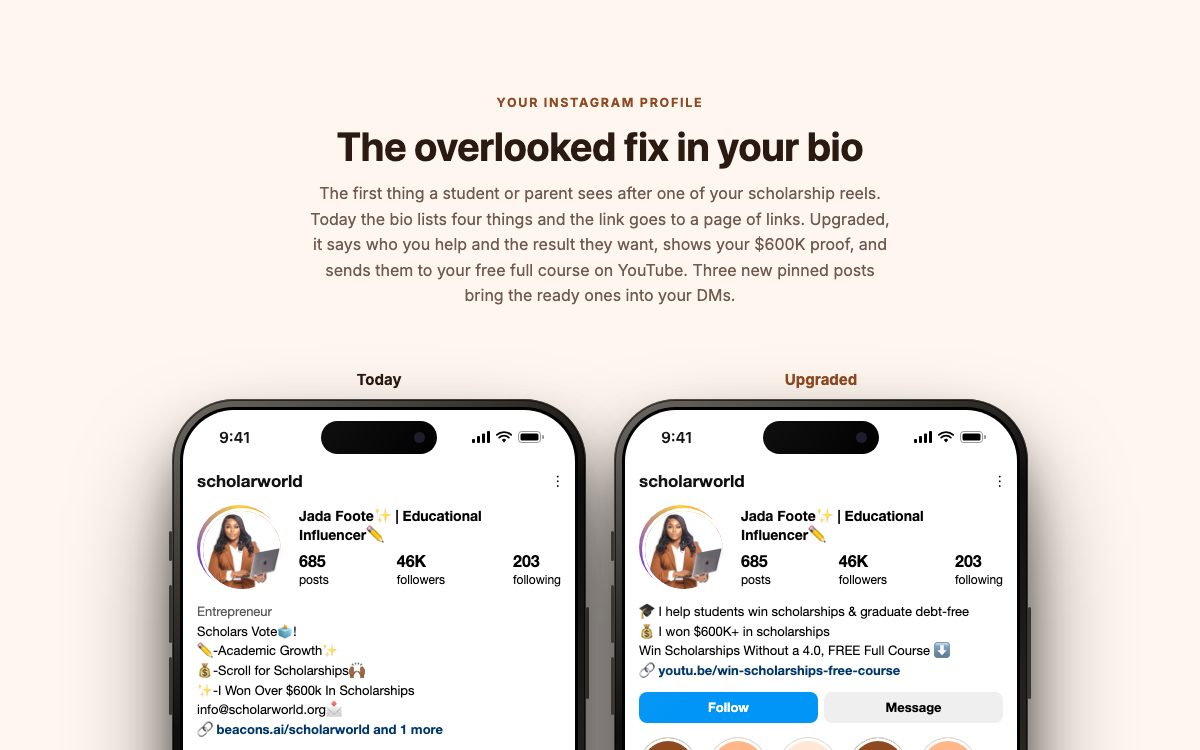
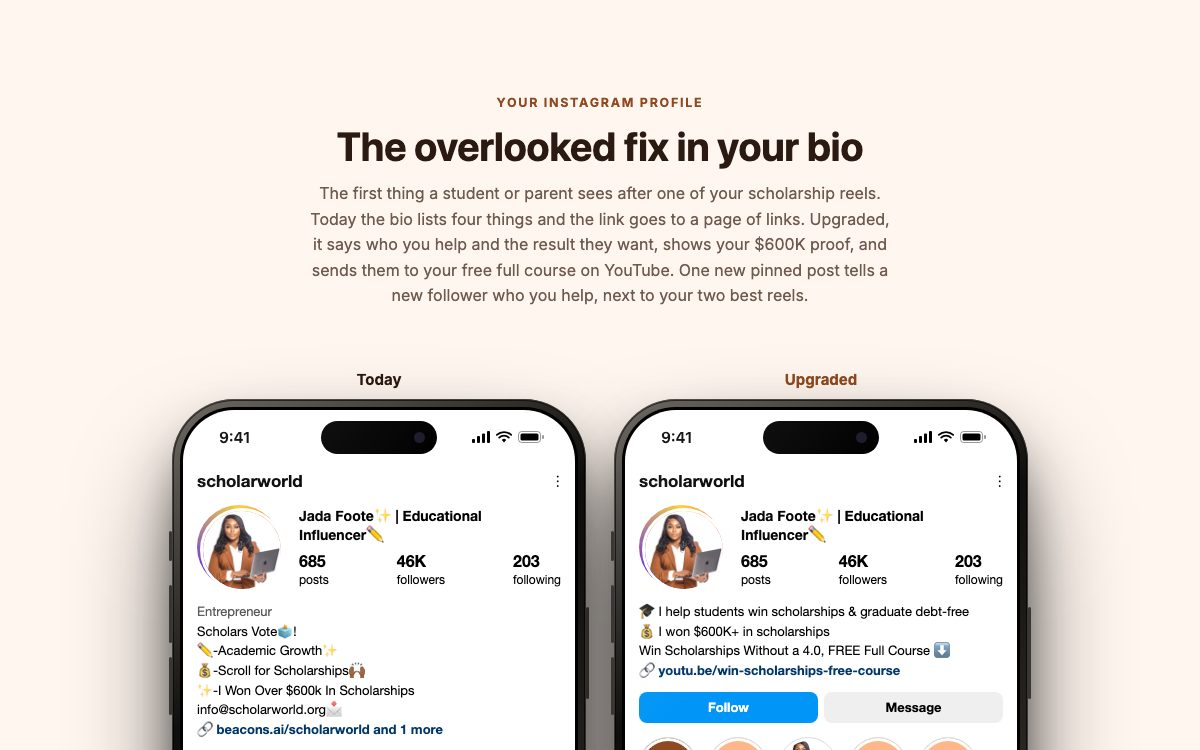
Jada pitch: her highlights + Start here/Free course, one new pinned post, 'my students' rating

Changed region(s): [[0.2467, 0.3373, 0.74, 0.3987], [0.6475, 0.9813, 0.74, 1.0]]

diff --git a/ig-profile/index.html b/ig-profile/index.html
@@ -47,7 +47,7 @@
       <div class="sa__intro">
         <p class="eyebrow">Your Instagram profile</p>
         <h1 class="sa__title">The overlooked fix in your bio</h1>
-        <p class="sa__note">The first thing a student or parent sees after one of your scholarship reels. Today the bio lists four things and the link goes to a page of links. Upgraded, it says who you help and the result they want, shows your $600K proof, and sends them to your free full course on YouTube. Three new pinned posts bring the ready ones into your DMs.</p>
+        <p class="sa__note">The first thing a student or parent sees after one of your scholarship reels. Today the bio lists four things and the link goes to a page of links. Upgraded, it says who you help and the result they want, shows your $600K proof, and sends them to your free full course on YouTube. One new pinned post tells a new follower who you help, next to your two best reels.</p>
       </div>
       <div class="stage"><div class="ads2">
         <div class="adcol"><p class="adlab">Today</p><div class="phone-wrap" id="pf1"><div class="iphone"><span class="btn-side l" style="top:132px;height:30px"></span><span class="btn-side l" style="top:186px;height:58px"></span><span class="btn-side l" style="top:258px;height:58px"></span><span class="btn-side r" style="top:208px;height:92px"></span><div class="screen"><div class="status"><span>9:41</span><span class="island"></span><span class="ic"><svg viewBox="0 0 18 12"><rect x="0" y="8" width="3" height="4" rx="1" fill="#000"/><rect x="5" y="5" width="3" height="7" rx="1" fill="#000"/><rect x="10" y="2.5" width="3" height="9.5" rx="1" fill="#000"/><rect x="15" y="0" width="3" height="12" rx="1" fill="#000"/></svg><svg viewBox="0 0 16 12"><path d="M8 11.5l2.2-2.6a3.2 3.2 0 0 0-4.4 0z" fill="#000"/><path d="M3.2 6.6a6.8 6.8 0 0 1 9.6 0" stroke="#000" stroke-width="1.8" fill="none" stroke-linecap="round"/><path d="M.8 3.9a10.5 10.5 0 0 1 14.4 0" stroke="#000" stroke-width="1.8" fill="none" stroke-linecap="round"/></svg><svg viewBox="0 0 27 12"><rect x=".5" y=".5" width="22" height="11" rx="3.2" fill="none" stroke="#000" opacity=".4"/><rect x="2.5" y="2.5" width="18" height="7" rx="1.6" fill="#000"/><rect x="24" y="4" width="2" height="4" rx="1" fill="#000" opacity=".4"/></svg></span></div>
@@ -69,16 +69,16 @@
     <div class="pright"><b class="pname">Jada Foote&#10024; | Educational Influencer&#9999;&#65039;</b><div class="pstats"><span><b>685</b>posts</span><span><b>46K</b>followers</span><span><b>203</b>following</span></div></div></div>
   <div class="pbio"><p>&#127891; I help students win scholarships &amp; graduate debt-free</p><p>&#128176; I won $600K+ in scholarships</p><p>Win Scholarships Without a 4.0, FREE Full Course &#11015;&#65039;</p><p class="plink">&#128279; youtu.be/win-scholarships-free-course</p></div>
   <div class="pbtn"><span class="fol">Follow</span><span>Message</span></div>
-  <div class="hl"><span class="hli"><i style="background:#8f4a22">&#9654;</i><b>Free course</b></span><span class="hli"><i style="background:#FFB689">&#10022;</i><b>Start here</b></span><span class="hli"><i style="background:#ffe7d6"></i><b>YouTube</b></span><span class="hli"><i style="background:#8f4a22"></i><b>Wins</b></span><span class="hli"><i style="background:#FFB689"></i><b>Scholarships</b></span></div>
+  <div class="hl"><span class="hli"><i style="background:#8f4a22">&#9654;</i><b>Free course</b></span><span class="hli"><i style="background:#FFB689">&#10022;</i><b>Start here</b></span><span class="hli"><i style="background:url(../assets/img/profile/pfp.jpg) center/cover"></i><b>Exclusive</b></span><span class="hli"><i style="background:#FFB689;font-size:15px">&#9733;</i><b>Scholarships&hellip;</b></span><span class="hli"><i style="background:#FFB689;font-size:15px">&#9733;</i><b>Reviews&#128588;&#127998;</b></span></div>
   <div class="ptabs"><span class="on">&#9638;</span><span>&#9654;</span><span>&#9786;</span></div>
-  <div class="grid3"><span class="gc"><svg class="pin" viewBox="0 0 24 24"><path d="M15 3l6 6-3 1-4 4 1 5-2 1-4-4-5 5-1-1 5-5-4-4 1-2 5 1 4-4z" fill="#fff"/></svg><svg class="rl" viewBox="0 0 24 24"><rect x="3" y="3" width="18" height="18" rx="5" fill="none" stroke="#fff" stroke-width="2"/><path d="M10 9v6l5-3z" fill="#fff"/></svg><img src="../assets/img/profile/g-pin-1.jpg" alt=""></span><span class="gc"><svg class="pin" viewBox="0 0 24 24"><path d="M15 3l6 6-3 1-4 4 1 5-2 1-4-4-5 5-1-1 5-5-4-4 1-2 5 1 4-4z" fill="#fff"/></svg><img src="../assets/img/profile/g-pin-2.jpg" alt=""></span><span class="gc"><svg class="pin" viewBox="0 0 24 24"><path d="M15 3l6 6-3 1-4 4 1 5-2 1-4-4-5 5-1-1 5-5-4-4 1-2 5 1 4-4z" fill="#fff"/></svg><img src="../assets/img/profile/g-pin-3.jpg" alt=""></span><span class="gc"><svg class="rl" viewBox="0 0 24 24"><rect x="3" y="3" width="18" height="18" rx="5" fill="none" stroke="#fff" stroke-width="2"/><path d="M10 9v6l5-3z" fill="#fff"/></svg><img src="../assets/img/profile/Dd2apmbqW1s.jpg" alt=""></span><span class="gc"><svg class="rl" viewBox="0 0 24 24"><rect x="3" y="3" width="18" height="18" rx="5" fill="none" stroke="#fff" stroke-width="2"/><path d="M10 9v6l5-3z" fill="#fff"/></svg><img src="../assets/img/profile/Dd4yQJhq-rk.jpg" alt=""></span><span class="gc"><img src="../assets/img/profile/DdXU5o2mB7W.jpg" alt=""></span></div>
+  <div class="grid3"><span class="gc"><svg class="pin" viewBox="0 0 24 24"><path d="M15 3l6 6-3 1-4 4 1 5-2 1-4-4-5 5-1-1 5-5-4-4 1-2 5 1 4-4z" fill="#fff"/></svg><svg class="rl" viewBox="0 0 24 24"><rect x="3" y="3" width="18" height="18" rx="5" fill="none" stroke="#fff" stroke-width="2"/><path d="M10 9v6l5-3z" fill="#fff"/></svg><img src="../assets/img/profile/g-pin-1.jpg?v=j2" alt=""></span><span class="gc"><svg class="pin" viewBox="0 0 24 24"><path d="M15 3l6 6-3 1-4 4 1 5-2 1-4-4-5 5-1-1 5-5-4-4 1-2 5 1 4-4z" fill="#fff"/></svg><svg class="rl" viewBox="0 0 24 24"><rect x="3" y="3" width="18" height="18" rx="5" fill="none" stroke="#fff" stroke-width="2"/><path d="M10 9v6l5-3z" fill="#fff"/></svg><img src="../assets/img/profile/DWuk07wCpT2.jpg?v=j2" alt=""></span><span class="gc"><svg class="pin" viewBox="0 0 24 24"><path d="M15 3l6 6-3 1-4 4 1 5-2 1-4-4-5 5-1-1 5-5-4-4 1-2 5 1 4-4z" fill="#fff"/></svg><svg class="rl" viewBox="0 0 24 24"><rect x="3" y="3" width="18" height="18" rx="5" fill="none" stroke="#fff" stroke-width="2"/><path d="M10 9v6l5-3z" fill="#fff"/></svg><img src="../assets/img/profile/DTOJbvDEWLQ.jpg?v=j2" alt=""></span><span class="gc"><svg class="rl" viewBox="0 0 24 24"><rect x="3" y="3" width="18" height="18" rx="5" fill="none" stroke="#fff" stroke-width="2"/><path d="M10 9v6l5-3z" fill="#fff"/></svg><img src="../assets/img/profile/Dd2apmbqW1s.jpg?v=j2" alt=""></span><span class="gc"><svg class="rl" viewBox="0 0 24 24"><rect x="3" y="3" width="18" height="18" rx="5" fill="none" stroke="#fff" stroke-width="2"/><path d="M10 9v6l5-3z" fill="#fff"/></svg><img src="../assets/img/profile/Dd4yQJhq-rk.jpg?v=j2" alt=""></span><span class="gc"><img src="../assets/img/profile/DdXU5o2mB7W.jpg?v=j2" alt=""></span></div>
 </div></div><div class="tabbar"><svg viewBox="0 0 24 24"><path d="M3 10.5L12 3l9 7.5V21h-6v-6H9v6H3z" fill="#000"/></svg><svg viewBox="0 0 24 24"><circle cx="11" cy="11" r="7"/><path d="M20.5 20.5l-4.5-4.5"/></svg><svg viewBox="0 0 24 24"><rect x="3" y="3" width="18" height="18" rx="5"/><path d="M12 8v8M8 12h8"/></svg><svg viewBox="0 0 24 24"><rect x="3" y="3" width="18" height="18" rx="5"/><path d="M3 8.5h18M8 3l3 5.5M14 3l3 5.5M10 12v5l4.5-2.5z"/></svg><img class="me" src="../assets/img/profile/pfp.jpg" alt="" /></div>
               <div class="homebar"></div></div></div></div></div>
       </div></div>
       <div class="why">
         <div><b>One line that flows</b><span>Who you help and the result they want, then your proof, then the free course with the outcome first. The link is the obvious next tap.</span></div>
-        <div><b>Real proof in the bio</b><span>$600K+ won in scholarships, already in your bio today. Your 1-on-1 reviews move into a Wins highlight.</span></div>
-        <div><b>Three new pinned posts</b><span>In your own peach card and reel style: who you help, your story, and the free course. Each ends with &ldquo;Comment the word SCHOLAR&rdquo;.</span></div>
+        <div><b>Real proof in the bio</b><span>$600K+ won in scholarships, already in your bio today. Your Reviews highlight stays, next to the new Start here and Free course.</span></div>
+        <div><b>One new pinned post</b><span>&ldquo;I help students win scholarships&rdquo;, in your own reel style, pinned next to your $60/hr and 2.5 GPA reels. It ends with &ldquo;Comment the word SCHOLAR&rdquo;.</span></div>
       </div>
       <div class="sh">
         <p class="eyebrow">New highlight &middot; Start here</p>

diff --git a/index.html b/index.html
@@ -204,7 +204,7 @@
           <div class="grid grid--1">
             <button class="pcard pcard--wide reveal" data-title="Your profile, upgraded" data-embed="ig-profile/?v=j1">
               <span class="thumb thumb--wide"><span class="thumb__bar"><i></i><i></i><i></i><span class="thumb__url">today vs upgraded</span></span><img class="thumb__img" src="assets/img/igprofile-preview.jpg?v=1" alt="Your profile, upgraded preview" loading="lazy" /></span>
-              <span class="pcard__body"><span><span class="pcard__kicker">The first thing they see</span><span class="pcard__title">Your profile, upgraded</span><span class="pcard__desc">A bio with one clear next step, your $600K proof up front, simple highlight covers and three pinned posts.</span></span><span class="pcard__link">Open preview <span class="arrow" aria-hidden="true"></span></span></span>
+              <span class="pcard__body"><span><span class="pcard__kicker">The first thing they see</span><span class="pcard__title">Your profile, upgraded</span><span class="pcard__desc">A bio with one clear next step, your $600K proof up front, &ldquo;Start here&rdquo; and &ldquo;Free course&rdquo; highlights, and one new pinned post.</span></span><span class="pcard__link">Open preview <span class="arrow" aria-hidden="true"></span></span></span>
             </button>
           </div>
         </div>

diff --git a/video/index.html b/video/index.html
@@ -356,7 +356,7 @@
     <div style="display:flex;flex-direction:column;gap:1rem;">
       <div class="nq-card rv"><p class="nq-stat">$600K+</p><p class="nq-statl">Won in scholarships, by me</p><p class="nq-p">I paid for my own education with scholarships. Now I teach students the same system.</p></div>
       <div class="nq-card rv"><p class="nq-stat">46K</p><p class="nq-statl">Students and parents follow my lists</p><p class="nq-p">Every month I post the scholarships due next, including the ones with no GPA requirement.</p></div>
-      <div class="nq-card rv"><p class="nq-stat">10/10</p><p class="nq-statl">How one student rated our 1-on-1 session</p><p class="nq-p">&ldquo;You answered all my questions &amp; provided amazing information I needed to know.&rdquo;</p></div>
+      <div class="nq-card rv"><p class="nq-stat">10/10</p><p class="nq-statl">How my students rated our 1-on-1 sessions</p><p class="nq-p">&ldquo;You answered all my questions &amp; provided amazing information I needed to know.&rdquo;</p></div>
     </div>
   </div>
 </section>
